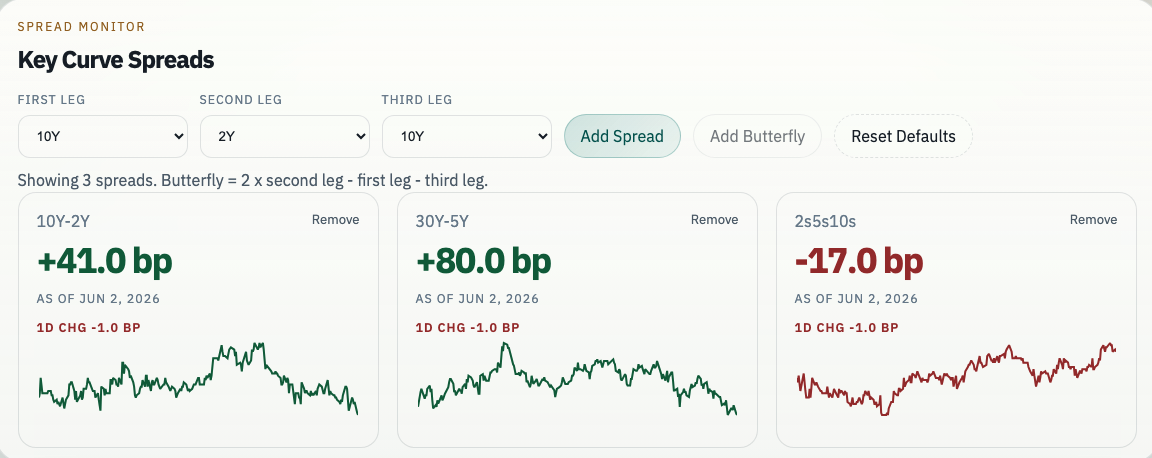
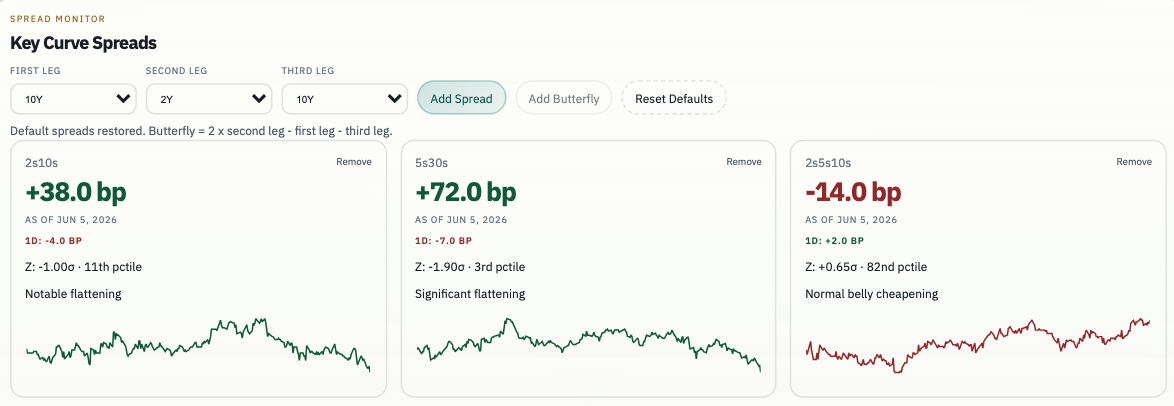
readme update

diff --git a/README.md b/README.md
@@ -71,6 +71,8 @@ The spread cards are configurable. Defaults are:
 - `5s30s`: `30Y - 5Y`
 - `2s5s10s`: `2 * 5Y - 2Y - 10Y`
 
+![Key spread cards](images/key_spreads.png)
+
 Controls let you add:
 
 - Two-leg spreads, calculated as `first leg - second leg`.
@@ -85,13 +87,13 @@ Each card shows:
 - The latest available date.
 - A compact sparkline.
 
-Clicking a card opens a spread detail panel. The detail panel keeps the cards compact and shows the normalized empirical distribution of historical one-day changes for the selected spread. The chart uses 50 bins, fixes the x-axis to z-scores from `-4.5` to `4.5`, overlays a standard normal curve, and marks the current move's z-score. Because the histogram is z-scored, its mean is zero by construction; the raw average magnitude and standard deviation of historical daily changes are reported separately in basis points.
+Clicking a card opens a spread detail panel that shows the normalized empirical distribution of historical one-day changes for the selected spread. The chart uses 50 bins, fixes the x-axis to z-scores from `-4.5` to `4.5`, overlays a standard normal curve, and marks both zero and the current move's z-score.
 
 Distribution stats include:
 
 - Current level.
 - Current one-day change.
-- Average magnitude and standard deviation of raw historical one-day changes in basis points.
+- Mean magnitude and standard deviation of historical one-day changes.
 - Z-score.
 - Empirical percentile.
 - Post-2006 sample start and end dates.